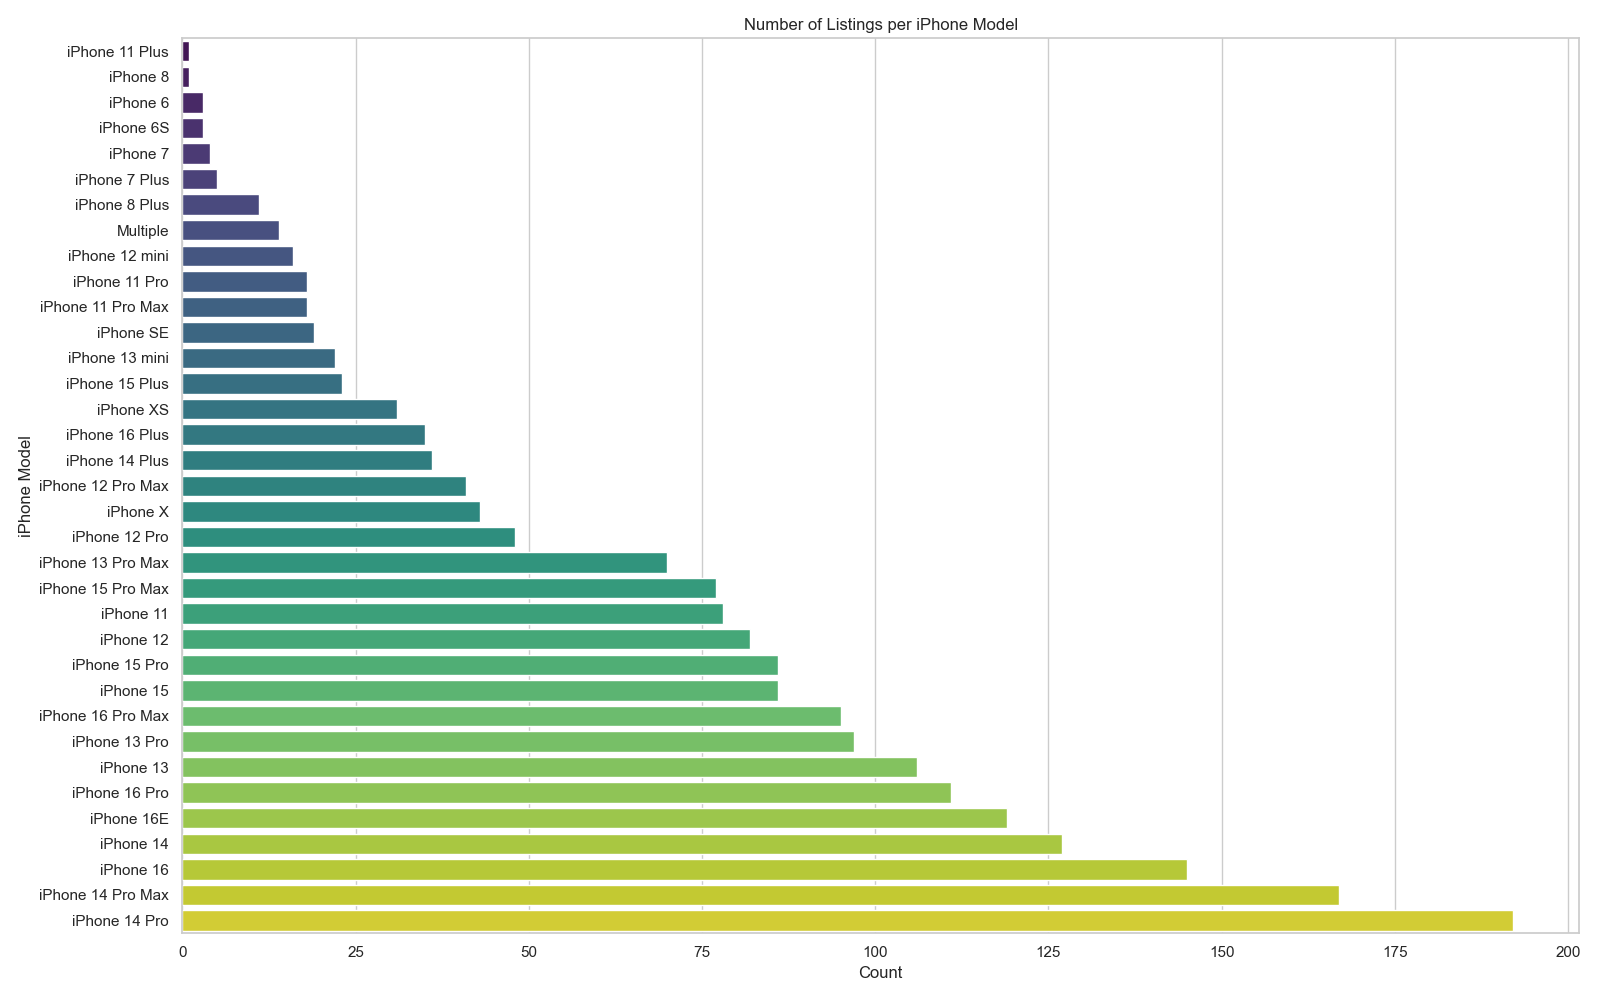
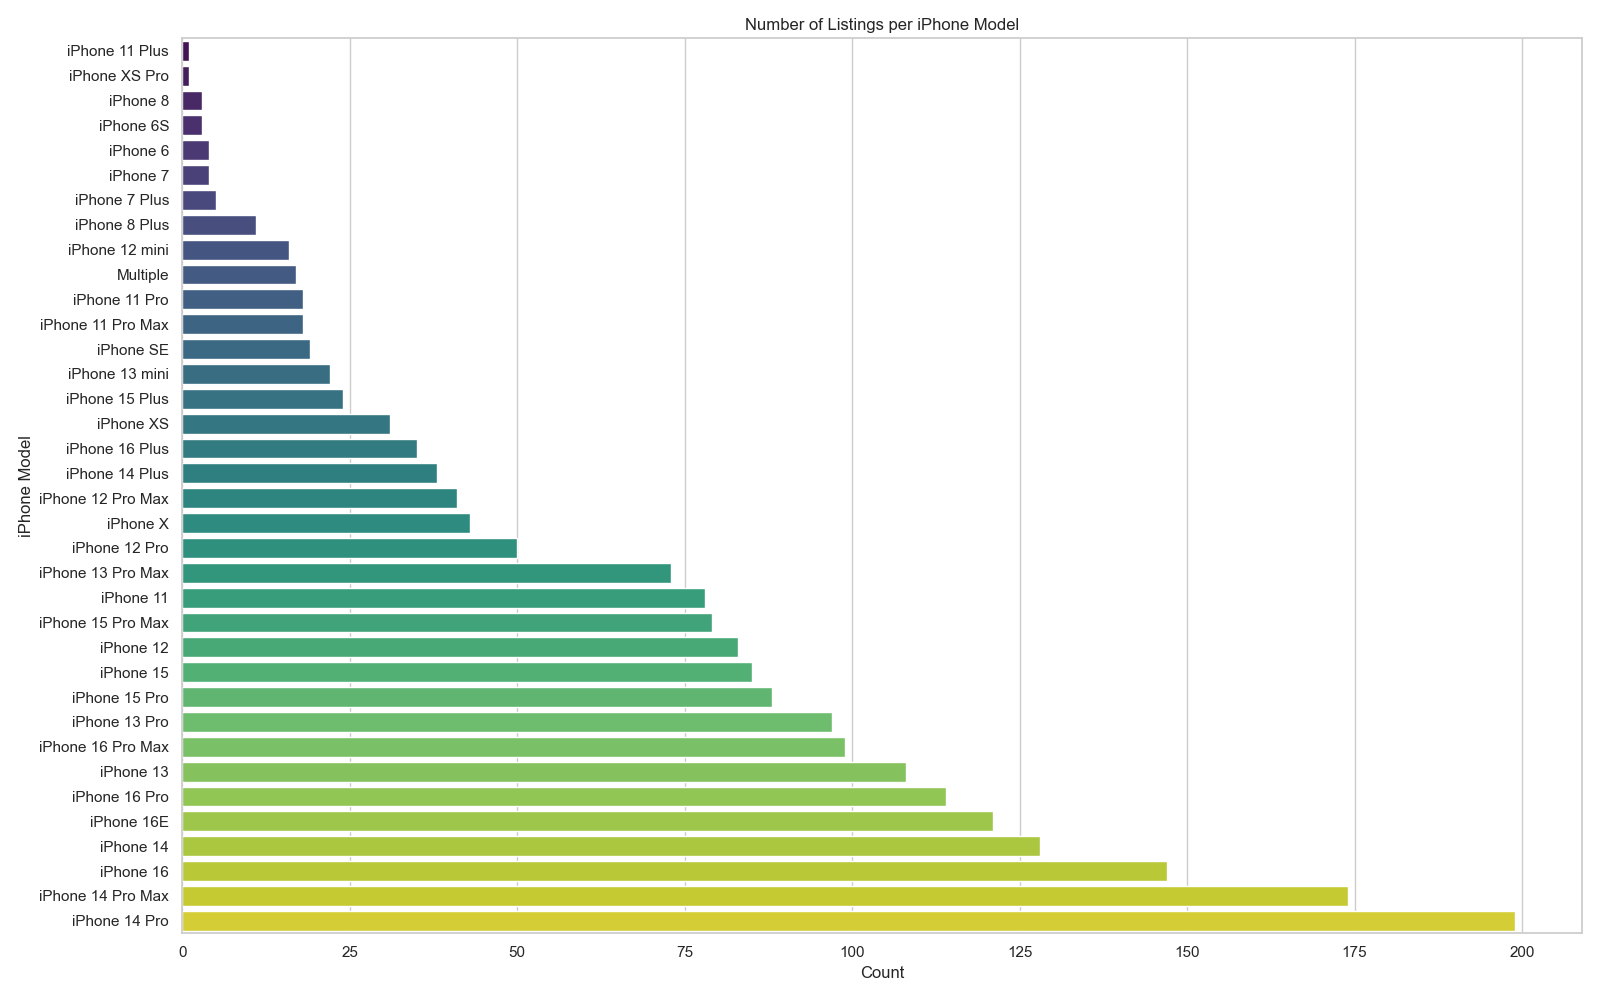
Improved extract_model function to detect more cases.

Changed region(s): [[0.0312, 0.062, 0.8438, 0.992], [0.4688, 0.0, 0.625, 0.031], [0.9688, 0.93, 1.0, 0.961]]

diff --git a/app.py b/app.py
@@ -50,36 +50,51 @@ def extract_model(title):
     # Normalize spacing and hyphens
     title_clean = re.sub(r"[\s\-]+", " ", title_clean)
 
-    # Handle "i13" and similar compact forms
+    # Handle "i13" → "iphone 13"
     title_clean = re.sub(r"\bi ?(\d{1,2}[a-z]{0,2})\b", r"iphone \1", title_clean)
-
-    # Also try to match "16-128g" or "16 128g"
-    if "iphone" not in title_clean:
-        if re.search(r"\b(16e|xs|x|se|6s|6|7|8|11|12|13|14|15|16)\b", title_clean):
-            title_clean = "iphone " + title_clean
 
     # Valid iPhone models
     valid_models = ["6", "6s", "7", "8", "se", "x", "xs", "11", "12", "13", "14", "15", "16", "16e"]
 
-    # Regex pattern to match model and optional variant
-    pattern = re.compile(
-        r"iphone\s*(16e|xs|x|se|6s|6|7|8|11|12|13|14|15|16)\s*(pro max|promax|pro|plus|mini)?",
-        re.IGNORECASE
-    )
-
-    matches = pattern.findall(title_clean)
-    if not matches:
-        return "Unknown"
-
-    models = set()
     variant_map = {
         "promax": " Pro Max",
         "pro max": " Pro Max",
+        "pm": " Pro Max",
+        "p": " Pro",
         "pro": " Pro",
         "plus": " Plus",
         "mini": " mini"
     }
 
+    # === Pattern 1: Standard "iphone 15 pro max" ===
+    pattern1 = re.compile(
+        r"iphone\s*(16e|xs|x|se|6s|6|7|8|11|12|13|14|15|16)\s*(pro max|promax|pro|plus|mini)?",
+        re.IGNORECASE
+    )
+
+    # === Pattern 2: Model-only fallback e.g. "15 promax", "16pro", "14plus"
+    pattern2 = re.compile(
+        r"\b(16e|xs|x|se|6s|6|7|8|11|12|13|14|15|16)\s*(pro max|promax|pro|plus|mini)?\b",
+        re.IGNORECASE
+    )
+    # === Pattern 3: Ultra-compact like "13promax", "15pm", "14p"
+    pattern3 = re.compile(
+        r"\b(16e|xs|x|se|6s|6|7|8|11|12|13|14|15|16)(promax|pm|pro|plus|p|mini)?\b",
+        re.IGNORECASE
+    )
+
+
+    matches = pattern1.findall(title_clean)
+    if not matches:
+        matches = pattern2.findall(title_clean)
+
+    if not matches:
+        matches = pattern3.findall(title_clean)
+
+    if not matches:
+        return "Unknown"
+
+    models = set()
     for model_raw, variant_raw in matches:
         model_raw = model_raw.lower()
         variant_raw = (variant_raw or "").replace(" ", "").lower()
